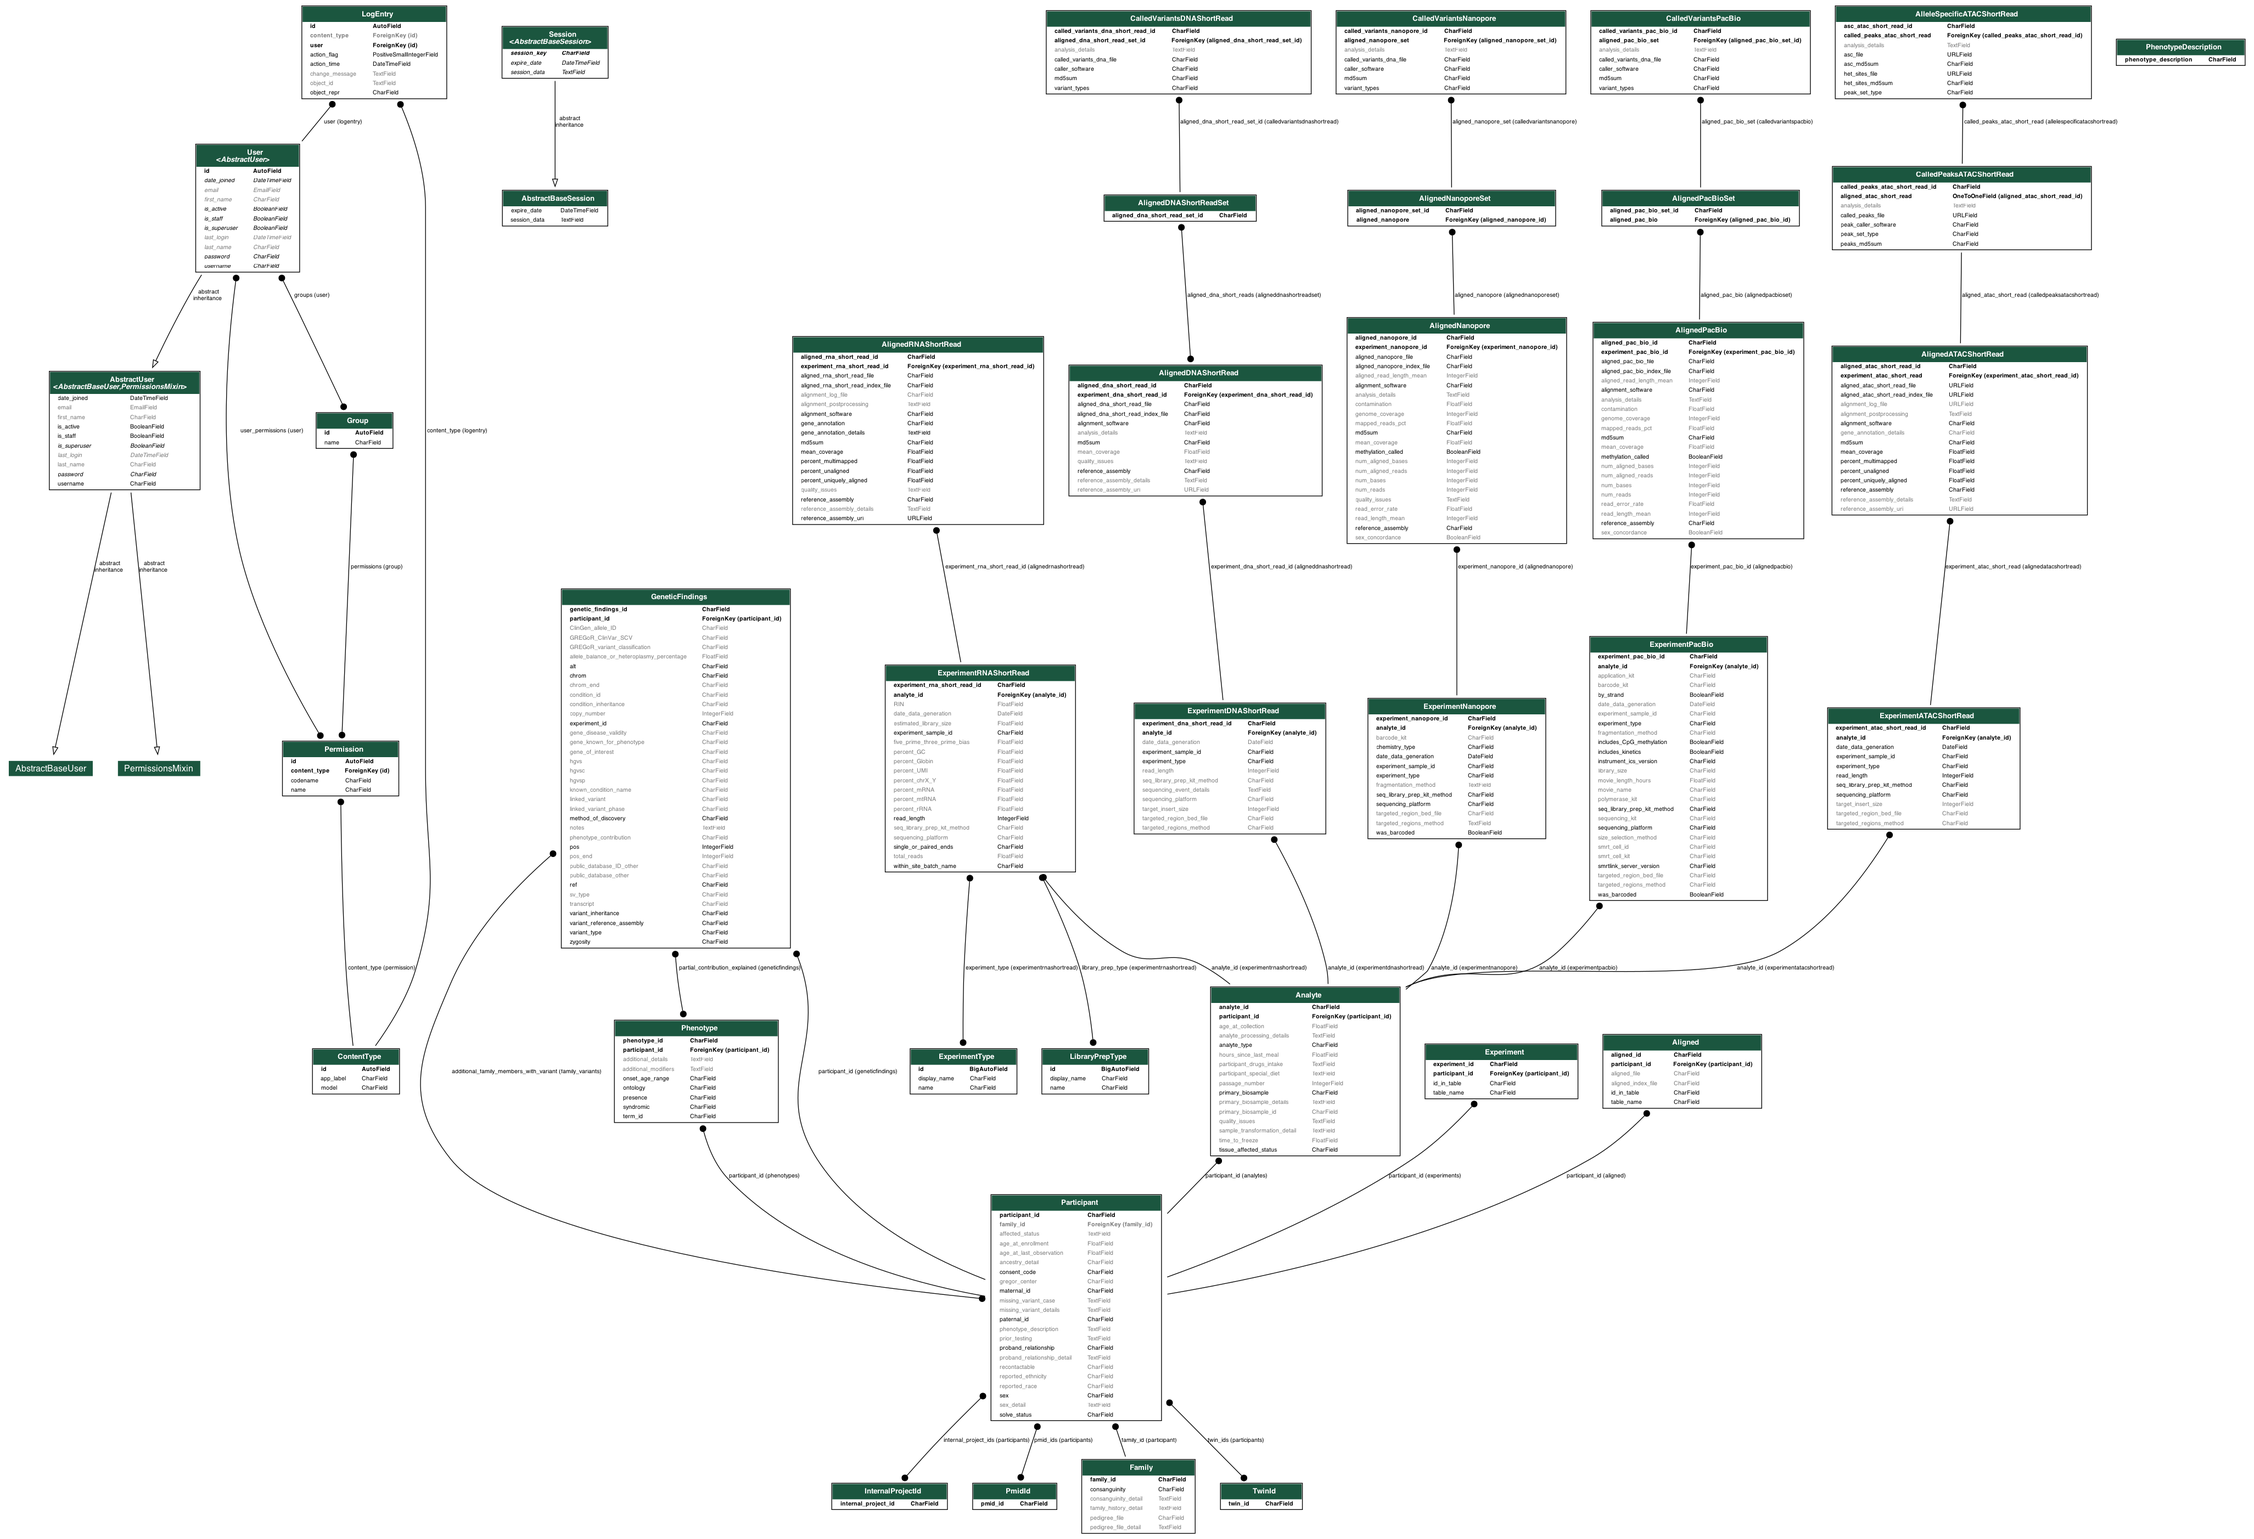
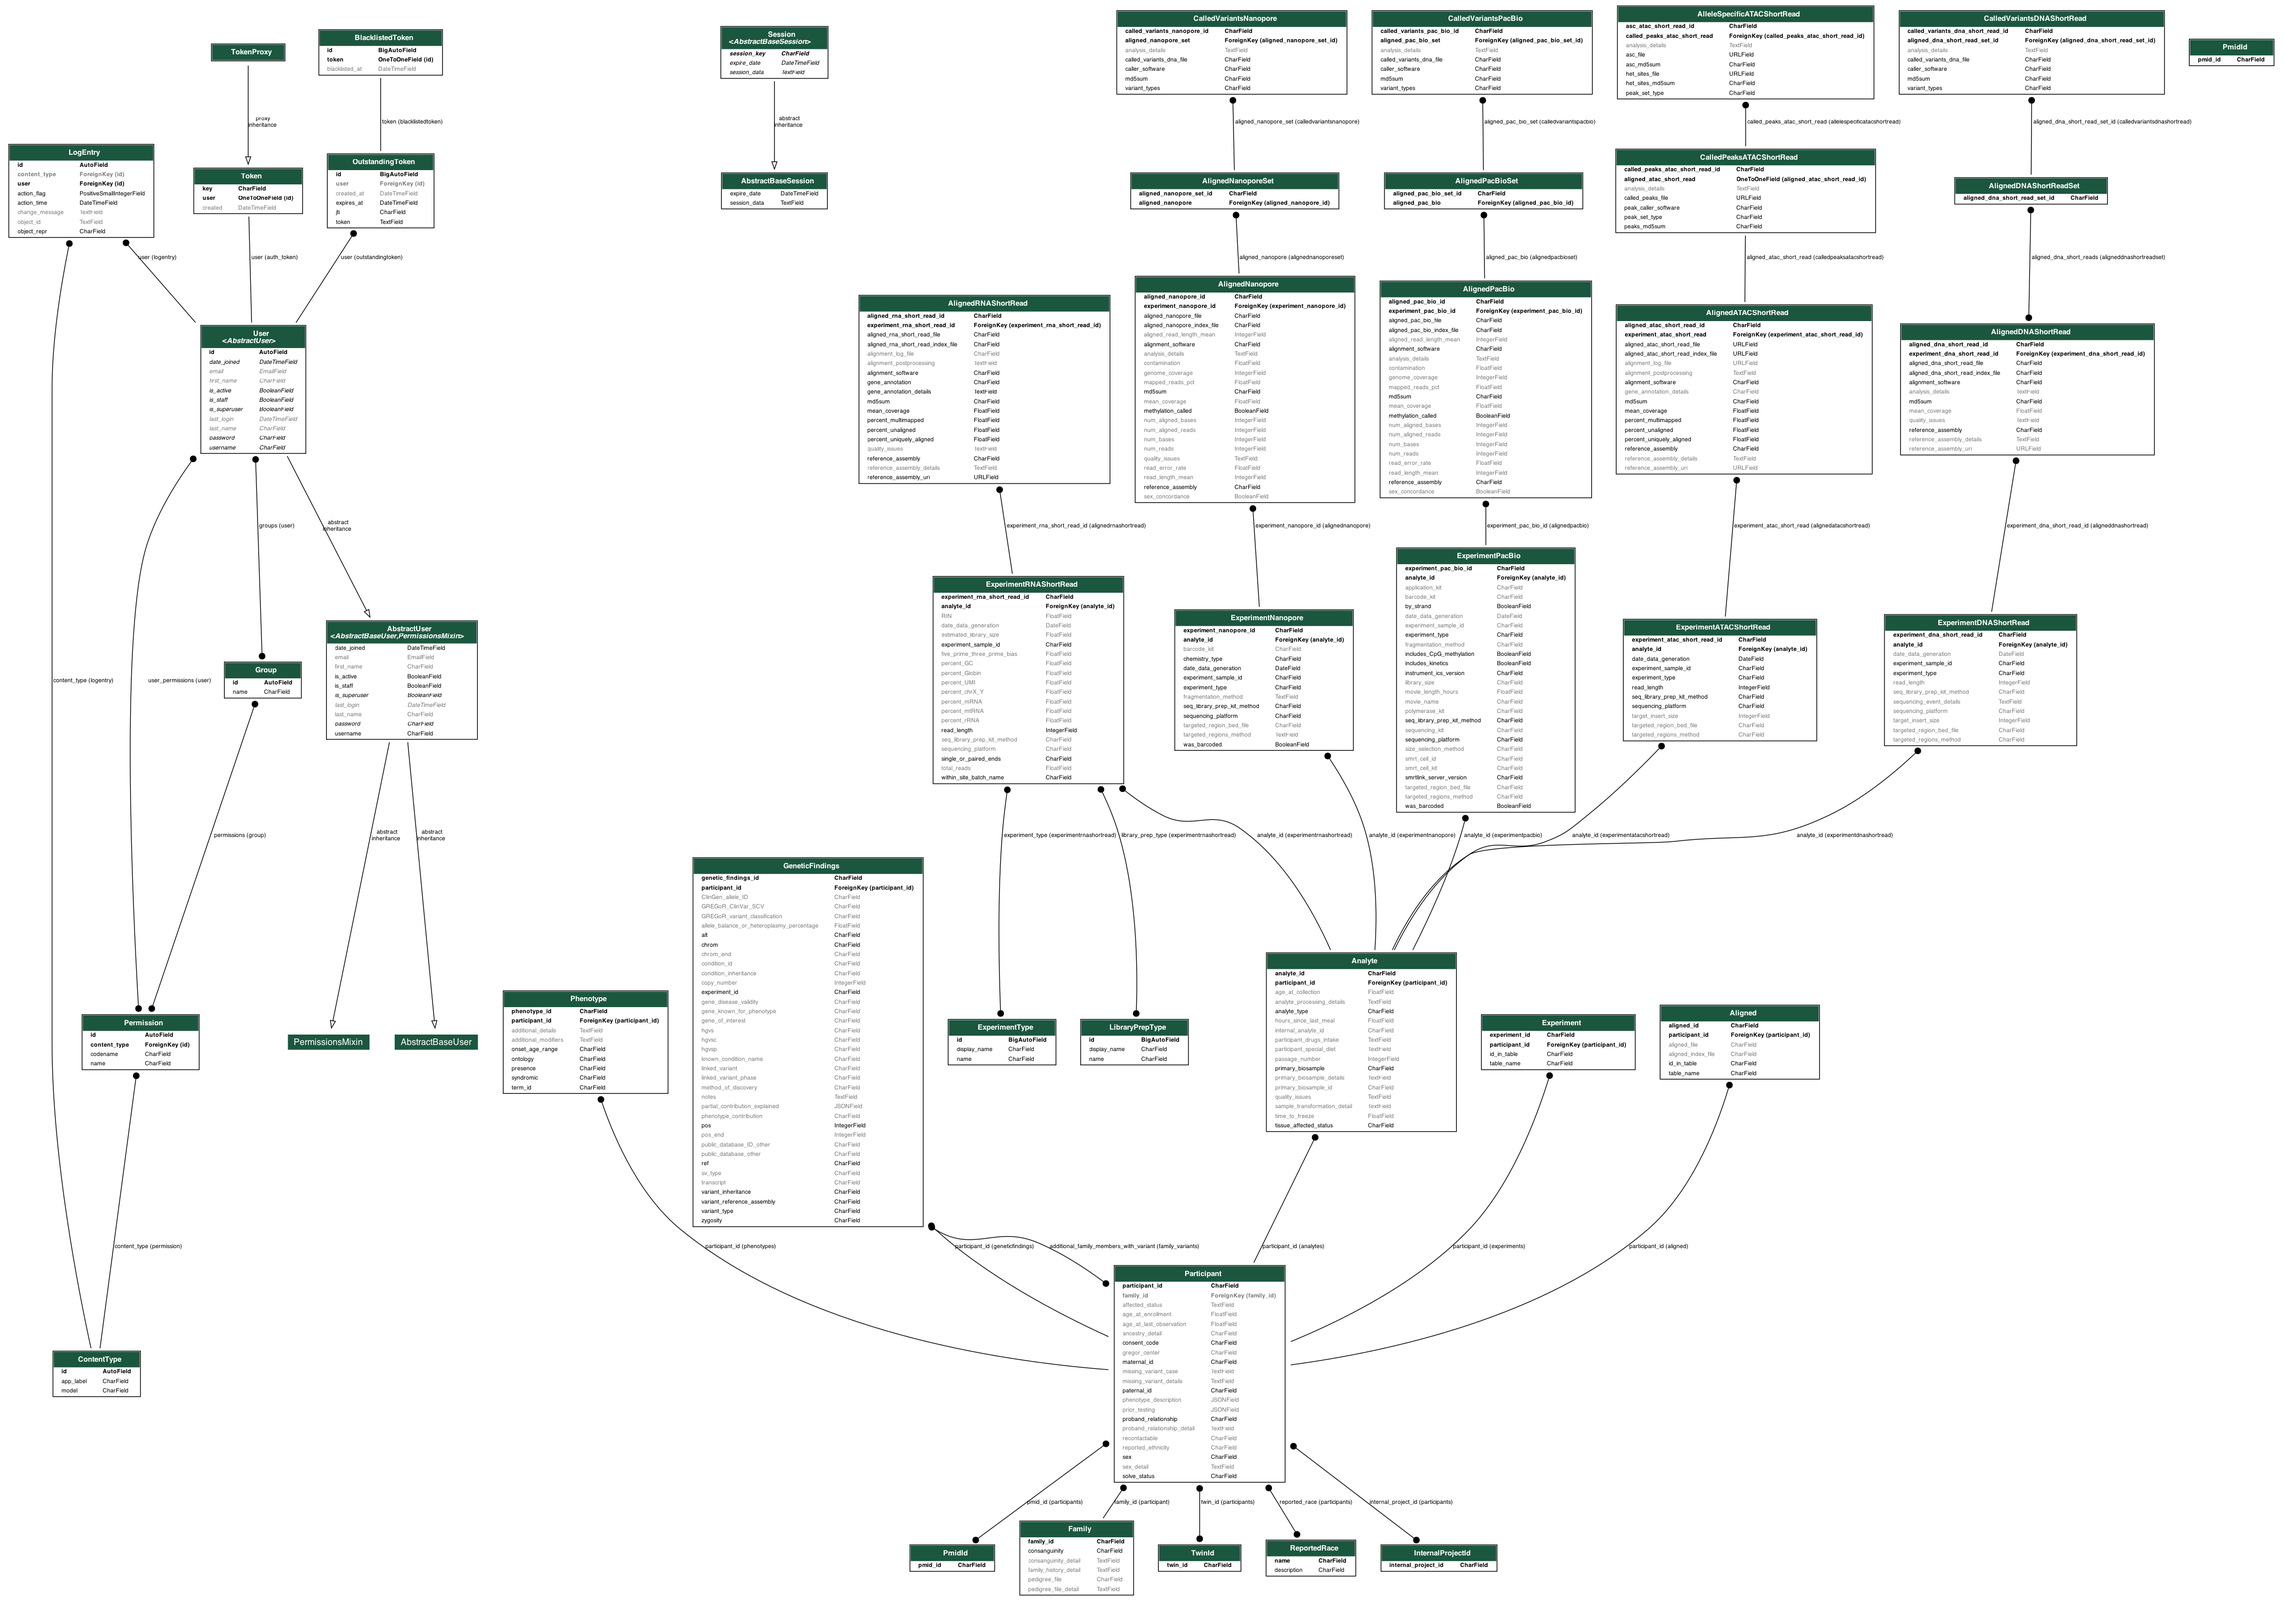
Updated DB Visualization and added `diagram.md`
Changes to be committed:
	modified:   docs/GREGoR_dashboard.png
	new file:   docs/diagram.md

diff --git a/docs/diagram.md b/docs/diagram.md
@@ -1,0 +1,75 @@
+# Database Visualization
+Getting a database diagram for visualizing the structure and relationships of the database depending on the setup:
+
+## Local deployment Using Django Tools
+Django provides a built-in way to generate a database schema diagram.
+
+Steps:
+1. Install the django-extensions package:
+
+        pip install django-extensions
+
+2. Add `django_extensions` to your `INSTALLED_APPS` in `settings.py`.
+
+3. Install graphviz for rendering diagrams:
+
+    - For Ubuntu/Debian:
+
+            sudo apt install graphviz
+
+    - For macOS:
+
+            brew install graphviz
+
+    - For Windows: Download from [Graphviz official site](https://graphviz.org/).
+
+4. Run the following command to generate the diagram:
+
+        python manage.py graph_models -a -o db_diagram.png
+
+    - `-a` generates diagrams for all models in the project.
+    - `-o` specifies the output file.
+
+### Output:
+A db_diagram.png file with a visual representation of your models and their relationships.
+
+## Using Database Tools
+
+### For PostgreSQL:
+- pgAdmin:
+    - Open your database in pgAdmin.
+    - Go to Tools > ERD Tool to generate an Entity-Relationship Diagram (ERD).
+- DBeaver (works for multiple databases):
+    - Connect to your database in DBeaver.
+    - Right-click your database and select ER Diagram.
+    - Export the diagram as an image or PDF.
+
+### For MySQL: MySQL Workbench
+- Open MySQL Workbench.
+- Go to Database > Reverse Engineer.
+- This will generate an ER diagram for your schema.
+### For SQLite:
+- Use tools like [DB Browser for SQLite](https://sqlitebrowser.org/).
+- Alternatively, connect it to a tool like DBeaver.
+
+## Online Tools
+If you want a quick solution without installing tools locally, you can use online platforms:
+
+- dbdiagram.io:
+    - Allows you to design or import your schema using a simple DSL.
+    - Great for collaboration and exporting diagrams.
+- QuickDBD:
+    - Another online tool where you can define relationships and visualize schemas.
+
+## Recommendations:
+- Simple Django Projects: Use django-extensions + graphviz.
+- Database Management: Tools like DBeaver or MySQL Workbench are robust and user-friendly.
+- Collaboration: Online tools like dbdiagram.io are great for sharing with teams.
+
+
+
+
+
+
+
+
